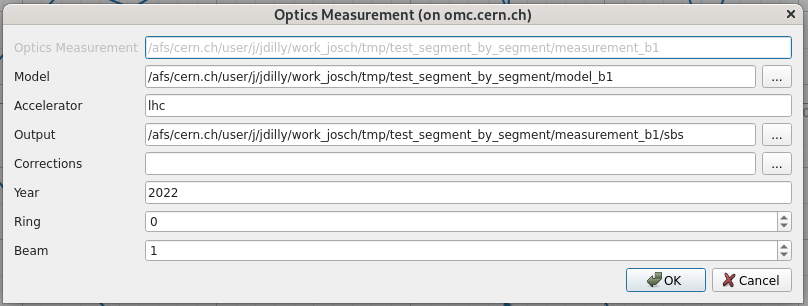
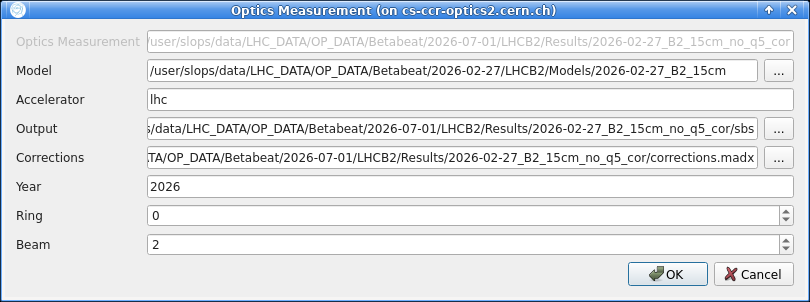
no jdilly in screenshot

Changed region(s): [[0.0, 0.0, 1.0, 1.0]]

diff --git a/docs/guis/segment_by_segment/segments.md b/docs/guis/segment_by_segment/segments.md
@@ -37,7 +37,7 @@ If the corresponding option is activated in the [settings][sbs_main_settings], t
     To use a different measurement directory, load a new measurement folder instead.
 
     The edit window will look like so.
-<!-- TODO: update this with no jdilly stuff -->
+
     <figure>
       <center>
       <img class="clickImg" src="../../assets/images/sbs_gui/optics_measurement.png" width="100%" alt="Edit Optics Measurement"/>